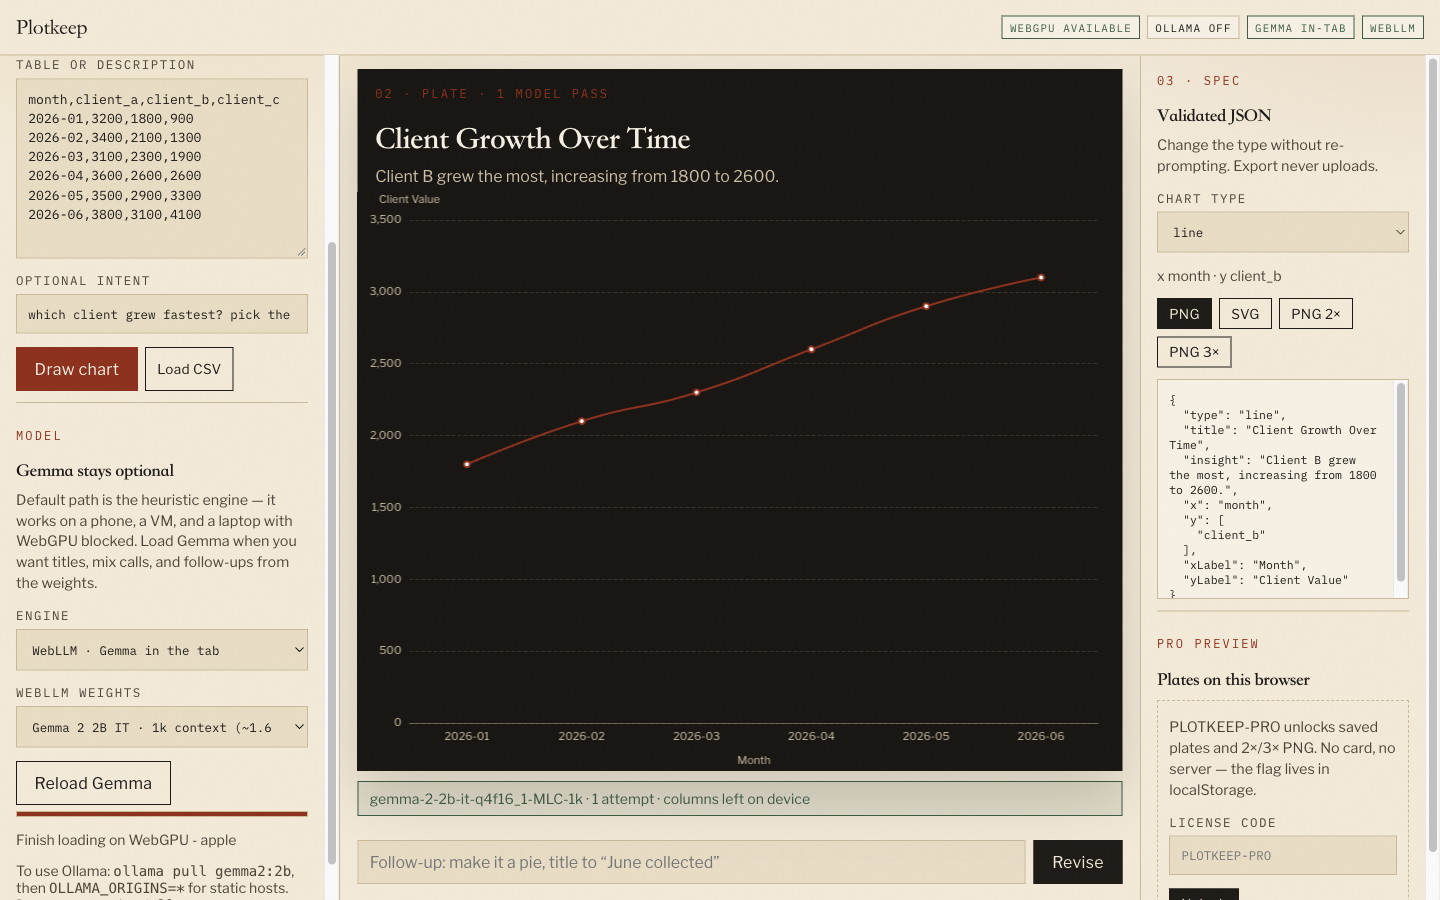
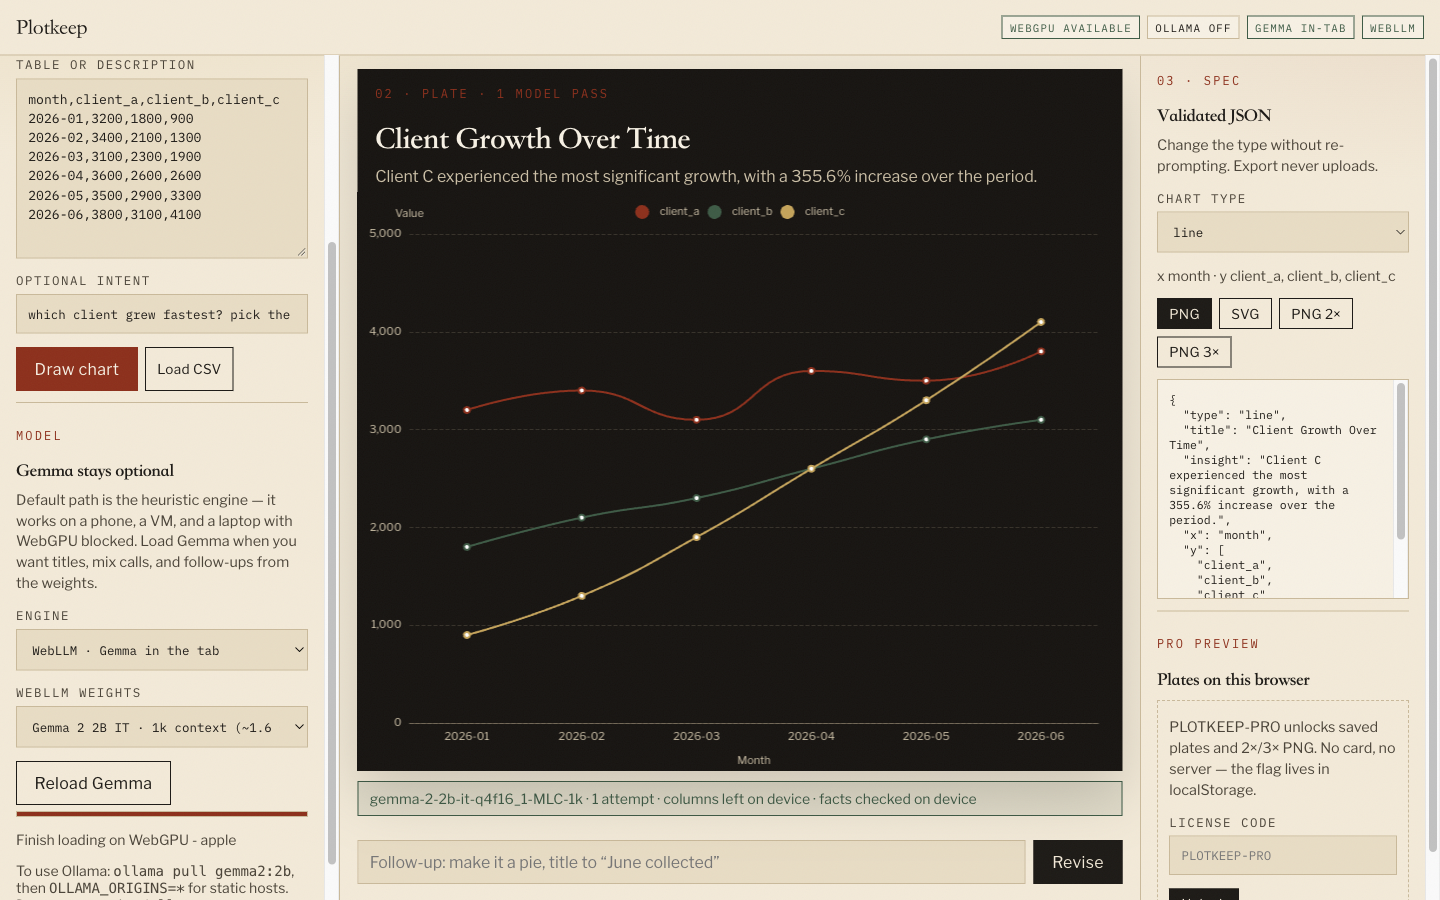
docs: reshoot CSV screenshots and add grounding notes

diff --git a/docs/devto-post.md b/docs/devto-post.md
@@ -57,6 +57,12 @@ The screenshots below are real runs of Gemma 2 2B IT (`gemma-2-2b-it-q4f16_1-MLC
 
 ![Gemma follow-up: line chart](https://raw.githubusercontent.com/sherotree/plotkeep/main/docs/screenshots/gemma-followup.png)
 
+### What went wrong, and how I fixed it
+
+In my first round of testing, Gemma 2 2B misread the freelancer CSV. Asked "which client grew fastest?", it said "Client B grew the most, increasing from 1800 to 2600." That was wrong: client_c went from 900 to 4100, and client_b ended at 3100, not 2600. It also plotted only client_b.
+
+So Plotkeep no longer trusts the model with arithmetic. For a parsed table it now computes the stats on device, in plain code: first and last value, min and max with their labels, absolute and percent change for each series, which series grew fastest, and the best and worst period. Those facts go into the Gemma prompt as ground truth. Gemma chooses the chart type and encoding and writes the wording. Every numeric series is plotted unless you ask for specific ones. After the model replies, a check compares the insight with the computed facts. If it credits the wrong series, names the wrong peak, or quotes a number that isn't in the table or the stats, the insight is replaced with a sentence built from the facts. The status line shows "facts checked on device" either way. In the reshoot above, Gemma's grounded answer passed the check: "Client C experienced the most significant growth, with a 355.6% increase over the period."
+
 If you are on a machine without WebGPU, stay on the heuristic engine or point Ollama at `gemma2:2b`. The UI says which of those is true; it does not pretend a cloud fallback exists.
 
 ## How I built it
